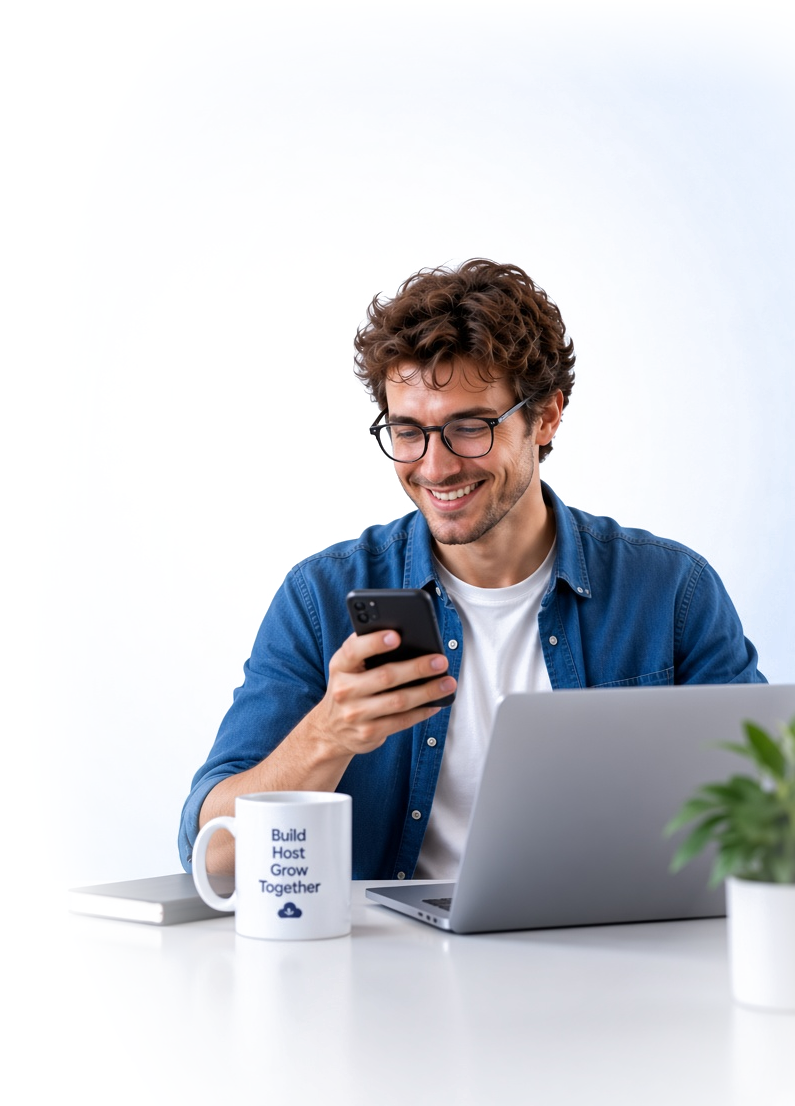
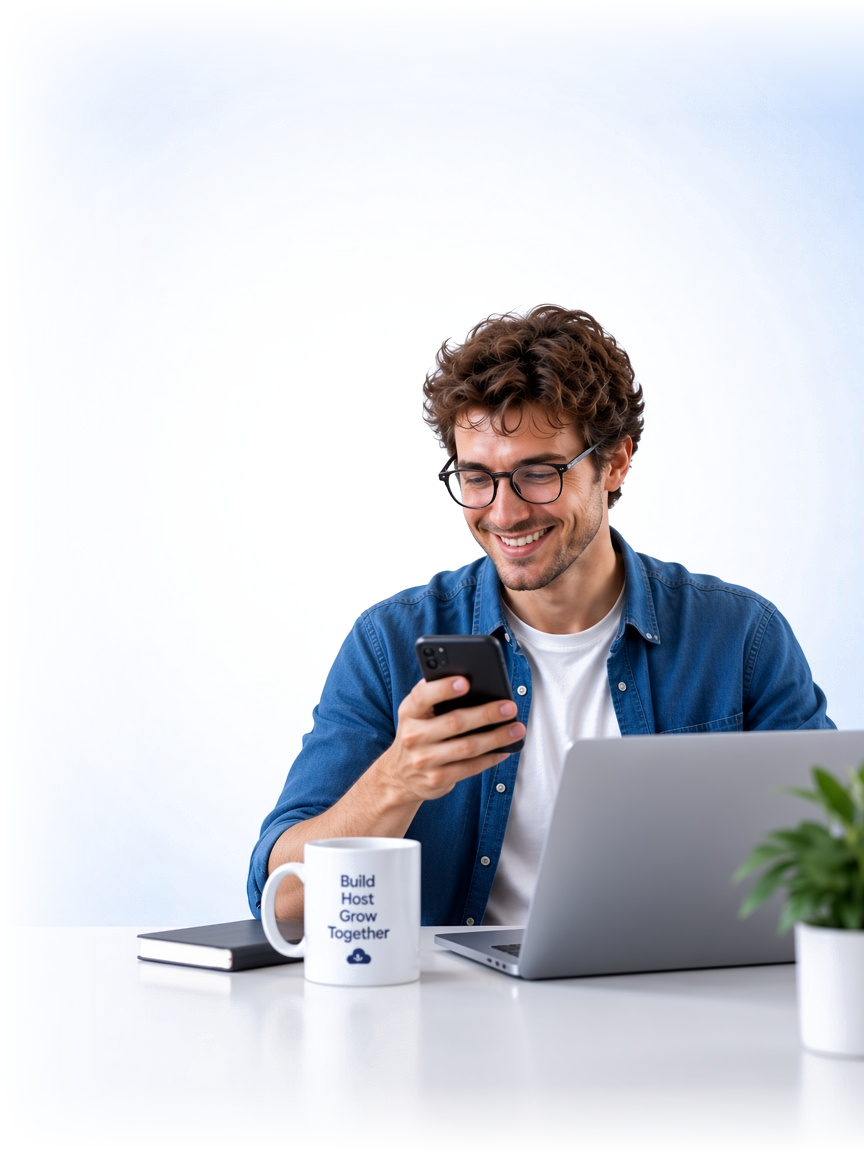
style: give the AI Assistant real brand marks and a blended portrait
Add Claude, OpenAI, Gemini, DeepSeek and OpenRouter wordmarks like the partner strip, enlarge the man, and fade the photo into the page instead of a framed crop.

Changed region(s): [[0.1208, 0.2152, 1.0, 0.953], [0.9358, 0.0307, 1.0, 0.1844], [0.966, 0.8608, 1.0, 0.953]]

diff --git a/components/home/ai-assistant-section.tsx b/components/home/ai-assistant-section.tsx
@@ -25,6 +25,24 @@ import {
   type CmsAiAssistantStat,
 } from "@/lib/orbit/defaults";
 
+const LOGO_SRC: Record<string, string> = {
+  claude: "/images/ai-assistant/claude.svg",
+  openai: "/images/ai-assistant/openai.svg",
+  gemini: "/images/ai-assistant/gemini.svg",
+  deepseek: "/images/ai-assistant/deepseek.svg",
+  openrouter: "/images/ai-assistant/openrouter.svg",
+  imunify: "/images/ai-assistant/imunify.svg",
+};
+
+const LOGO_SIZE: Record<string, { w: number; h: number }> = {
+  claude: { w: 168, h: 40 },
+  openai: { w: 148, h: 40 },
+  gemini: { w: 148, h: 40 },
+  deepseek: { w: 168, h: 40 },
+  openrouter: { w: 188, h: 40 },
+  imunify: { w: 176, h: 40 },
+};
+
 const highlightIcons: Record<CmsAiAssistantHighlight["icon"], typeof Zap> = {
   zap: Zap,
   layers: Layers,
@@ -197,30 +215,30 @@ function AssistantChat({ content }: { content: CmsAiAssistantContent }) {
 
 function AssistantStage({ content }: { content: CmsAiAssistantContent }) {
   return (
-    <div className="relative mx-auto min-h-[520px] w-full max-w-[640px] sm:min-h-[580px] lg:ml-auto lg:min-h-[600px] lg:max-w-none">
+    <div className="relative mx-auto min-h-[560px] w-full max-w-[680px] sm:min-h-[620px] lg:ml-auto lg:min-h-[640px] lg:max-w-none">
       <div
         aria-hidden
-        className="pointer-events-none absolute -inset-6 rounded-[40px] bg-[radial-gradient(ellipse_at_center,rgba(37,99,235,0.16),transparent_62%)] blur-2xl"
+        className="pointer-events-none absolute -inset-8 rounded-[48px] bg-[radial-gradient(ellipse_at_70%_50%,rgba(147,197,253,0.28),transparent_64%)] blur-2xl"
       />
 
       {content.imageUrl ? (
-        <div className="absolute right-[-8%] bottom-[-8%] z-10 h-[108%] w-[92%] sm:right-[-4%] sm:w-[82%] lg:w-[78%]">
+        <div className="absolute right-[-10%] bottom-[-10%] z-10 h-[118%] w-[100%] sm:right-[-6%] sm:w-[90%] lg:w-[88%]">
           <Image
             src={content.imageUrl}
             alt={content.imageAlt}
             fill
             priority
-            sizes="(max-width: 1024px) 90vw, 50vw"
+            sizes="(max-width: 1024px) 100vw, 56vw"
             unoptimized={
               isRuntimeMediaSrc(content.imageUrl) ||
               content.imageUrl.endsWith(".png")
             }
-            className="[mask-image:radial-gradient(ellipse_78%_82%_at_62%_48%,#000_56%,transparent_84%)] object-contain object-bottom [-webkit-mask-image:radial-gradient(ellipse_78%_82%_at_62%_48%,#000_56%,transparent_84%)]"
+            className="[mask-image:linear-gradient(to_right,transparent_0%,#000_14%,#000_100%),linear-gradient(to_top,transparent_0%,#000_10%,#000_100%)] [mask-composite:intersect] object-contain object-[center_bottom] [-webkit-mask-composite:source-in] [-webkit-mask-image:linear-gradient(to_right,transparent_0%,#000_14%,#000_100%),linear-gradient(to_top,transparent_0%,#000_10%,#000_100%)]"
           />
         </div>
       ) : null}
 
-      <div className="absolute top-[12%] left-0 z-20 w-[86%] max-w-[340px] sm:top-[16%] sm:w-[54%]">
+      <div className="absolute top-[10%] left-0 z-20 w-[88%] max-w-[340px] sm:top-[12%] sm:w-[52%]">
         <AssistantChat content={content} />
       </div>
 
@@ -277,13 +295,35 @@ export function AiAssistantSection({
       </div>
 
       <div className="hb-shell relative z-10">
-        <div className="mb-8 flex flex-wrap items-center justify-center gap-x-5 gap-y-2 text-[12px] font-bold text-slate-600 sm:mb-10 sm:gap-x-7">
-          {data.partners.map((partner) => (
-            <span key={partner.id} className="inline-flex items-center gap-1.5">
-              <Sparkles className="size-3.5 text-[#4f46e5]" />
-              {partner.label}
-            </span>
-          ))}
+        <div className="mb-8 flex flex-wrap items-center justify-center gap-y-3 sm:mb-10">
+          {data.partners.map((partner, index) => {
+            const src = LOGO_SRC[partner.id];
+            const size = LOGO_SIZE[partner.id] ?? { w: 160, h: 40 };
+            return (
+              <span key={partner.id} className="inline-flex items-center">
+                {index > 0 ? (
+                  <span
+                    aria-hidden
+                    className="mx-3 h-5 w-px shrink-0 bg-slate-300/90 sm:mx-5"
+                  />
+                ) : null}
+                {src ? (
+                  <Image
+                    src={`${src}?v=1`}
+                    alt={partner.label}
+                    width={size.w}
+                    height={size.h}
+                    unoptimized
+                    className="h-8 w-auto max-w-[160px] object-contain sm:h-9"
+                  />
+                ) : (
+                  <span className="text-[12px] font-bold text-slate-600">
+                    {partner.label}
+                  </span>
+                )}
+              </span>
+            );
+          })}
         </div>
 
         <div className="grid items-center gap-10 lg:grid-cols-[minmax(0,0.92fr)_minmax(0,1.08fr)] lg:gap-8 xl:gap-12">
